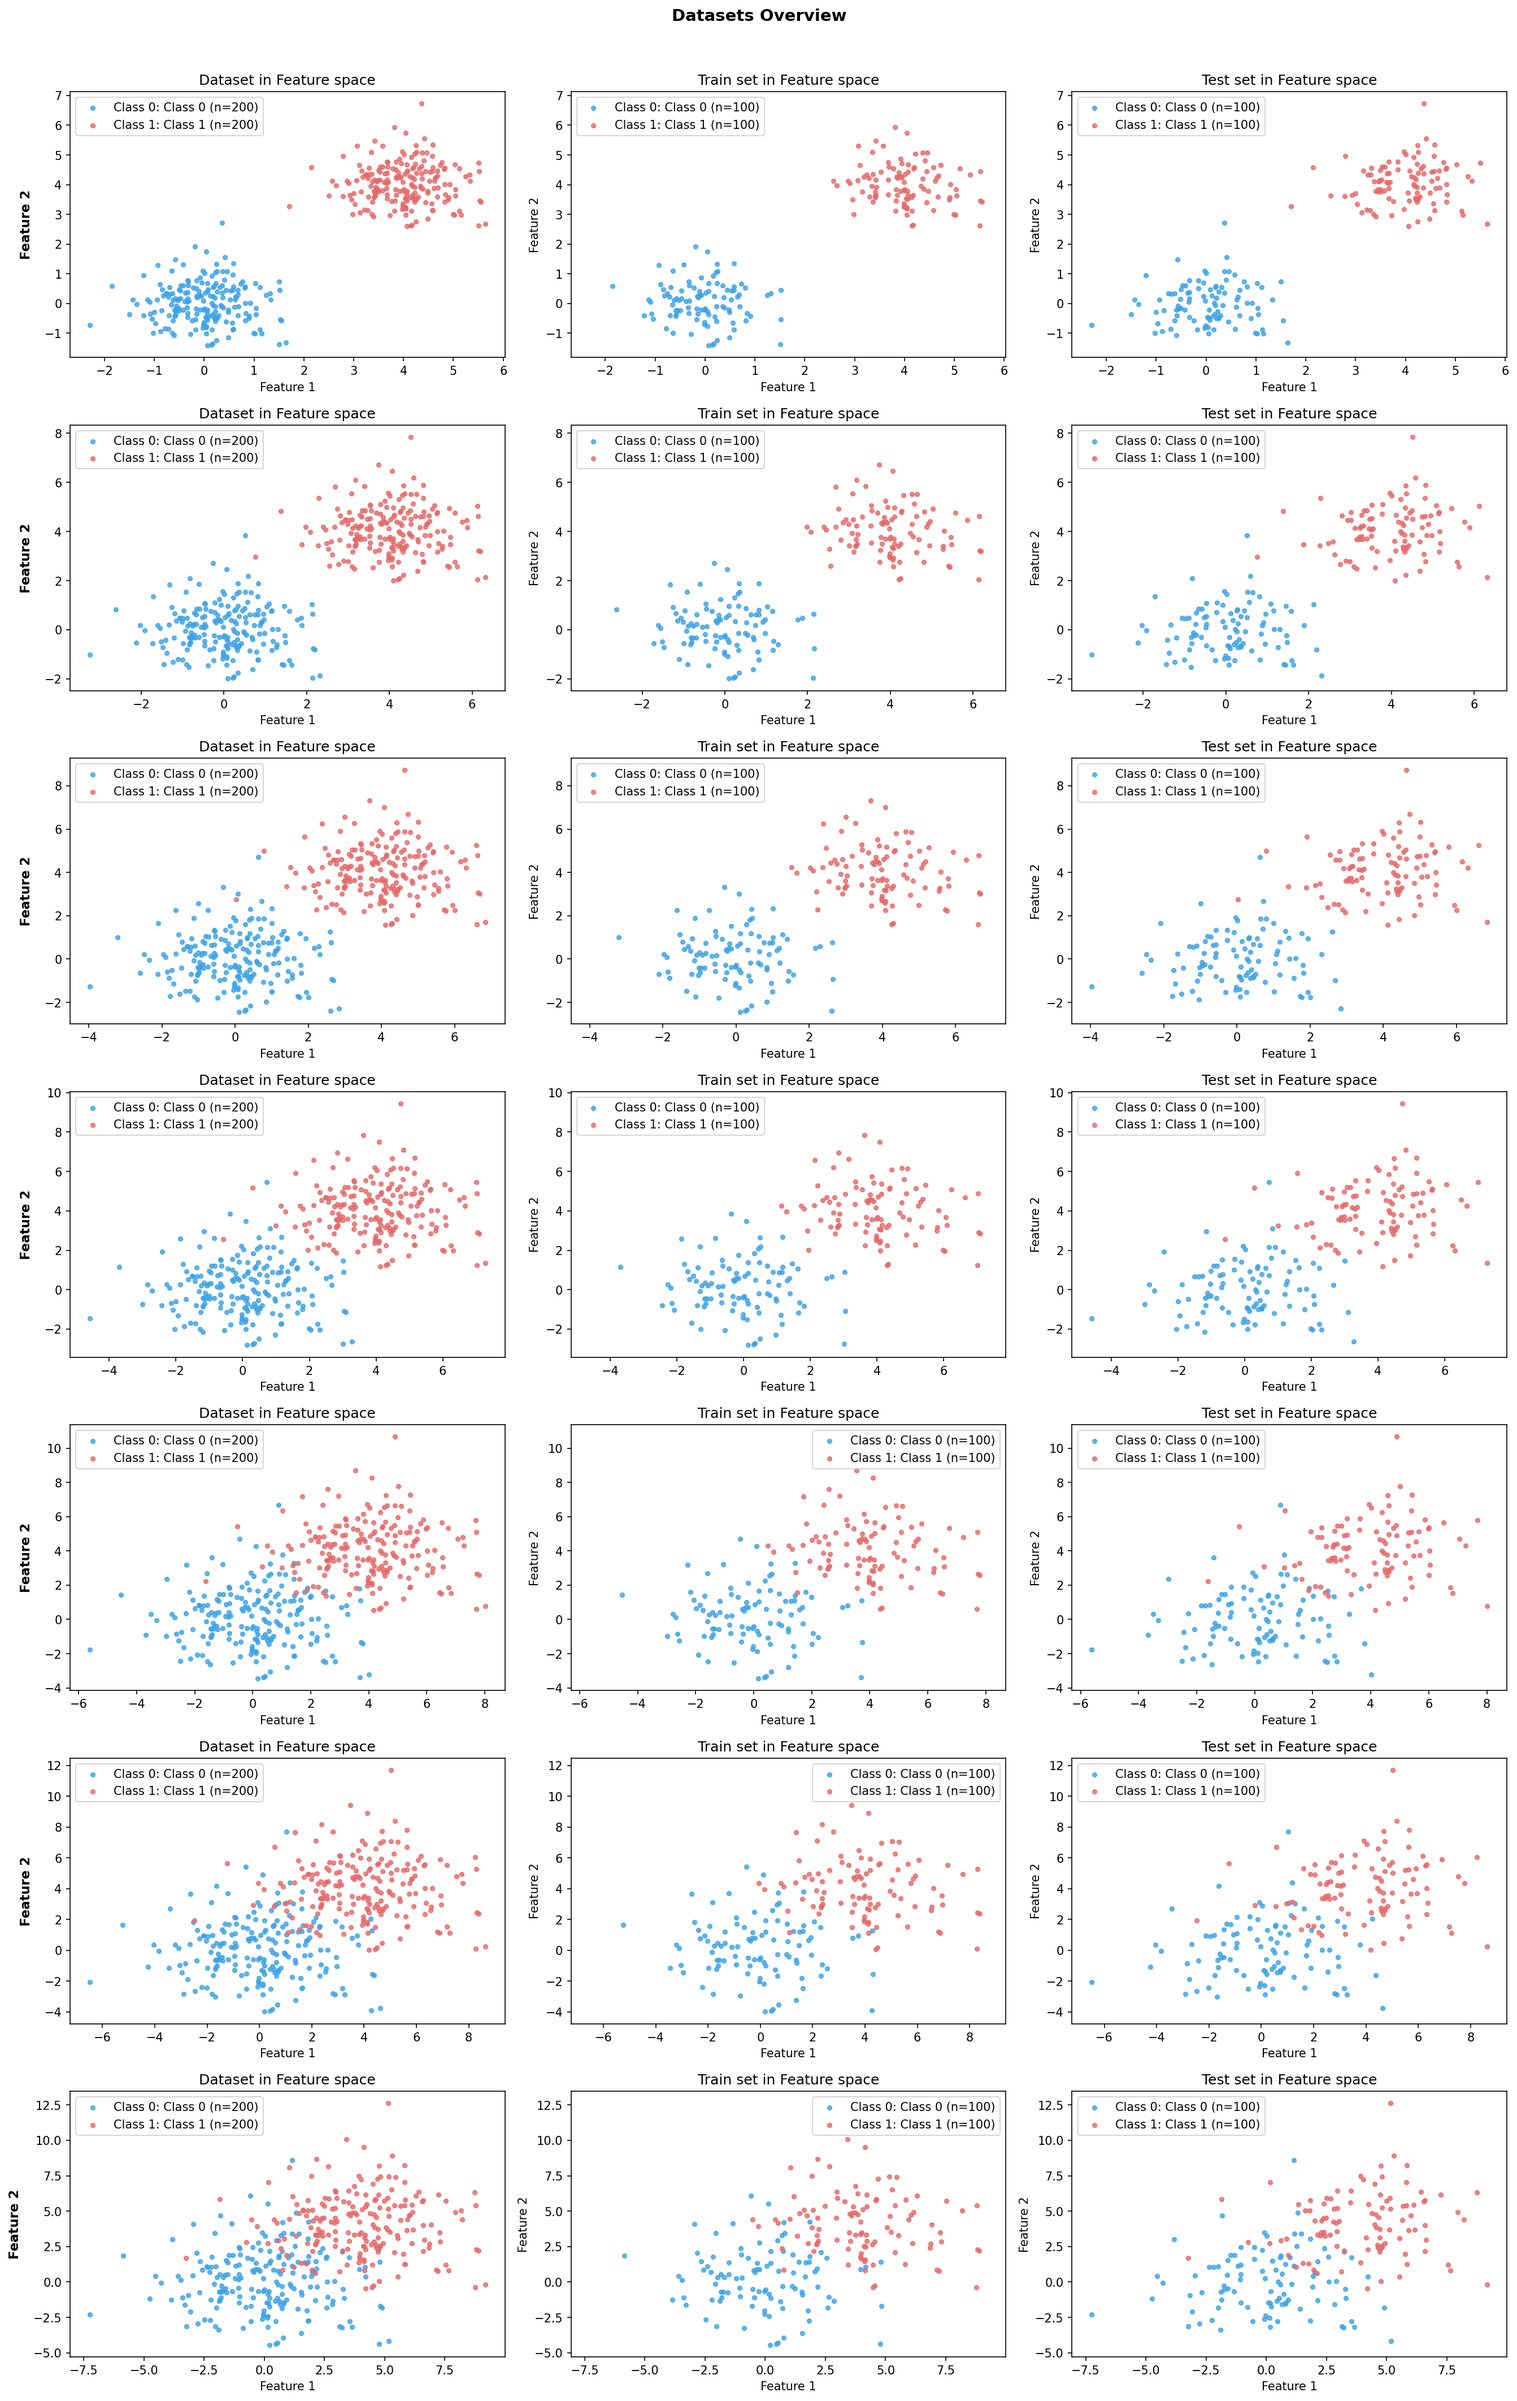
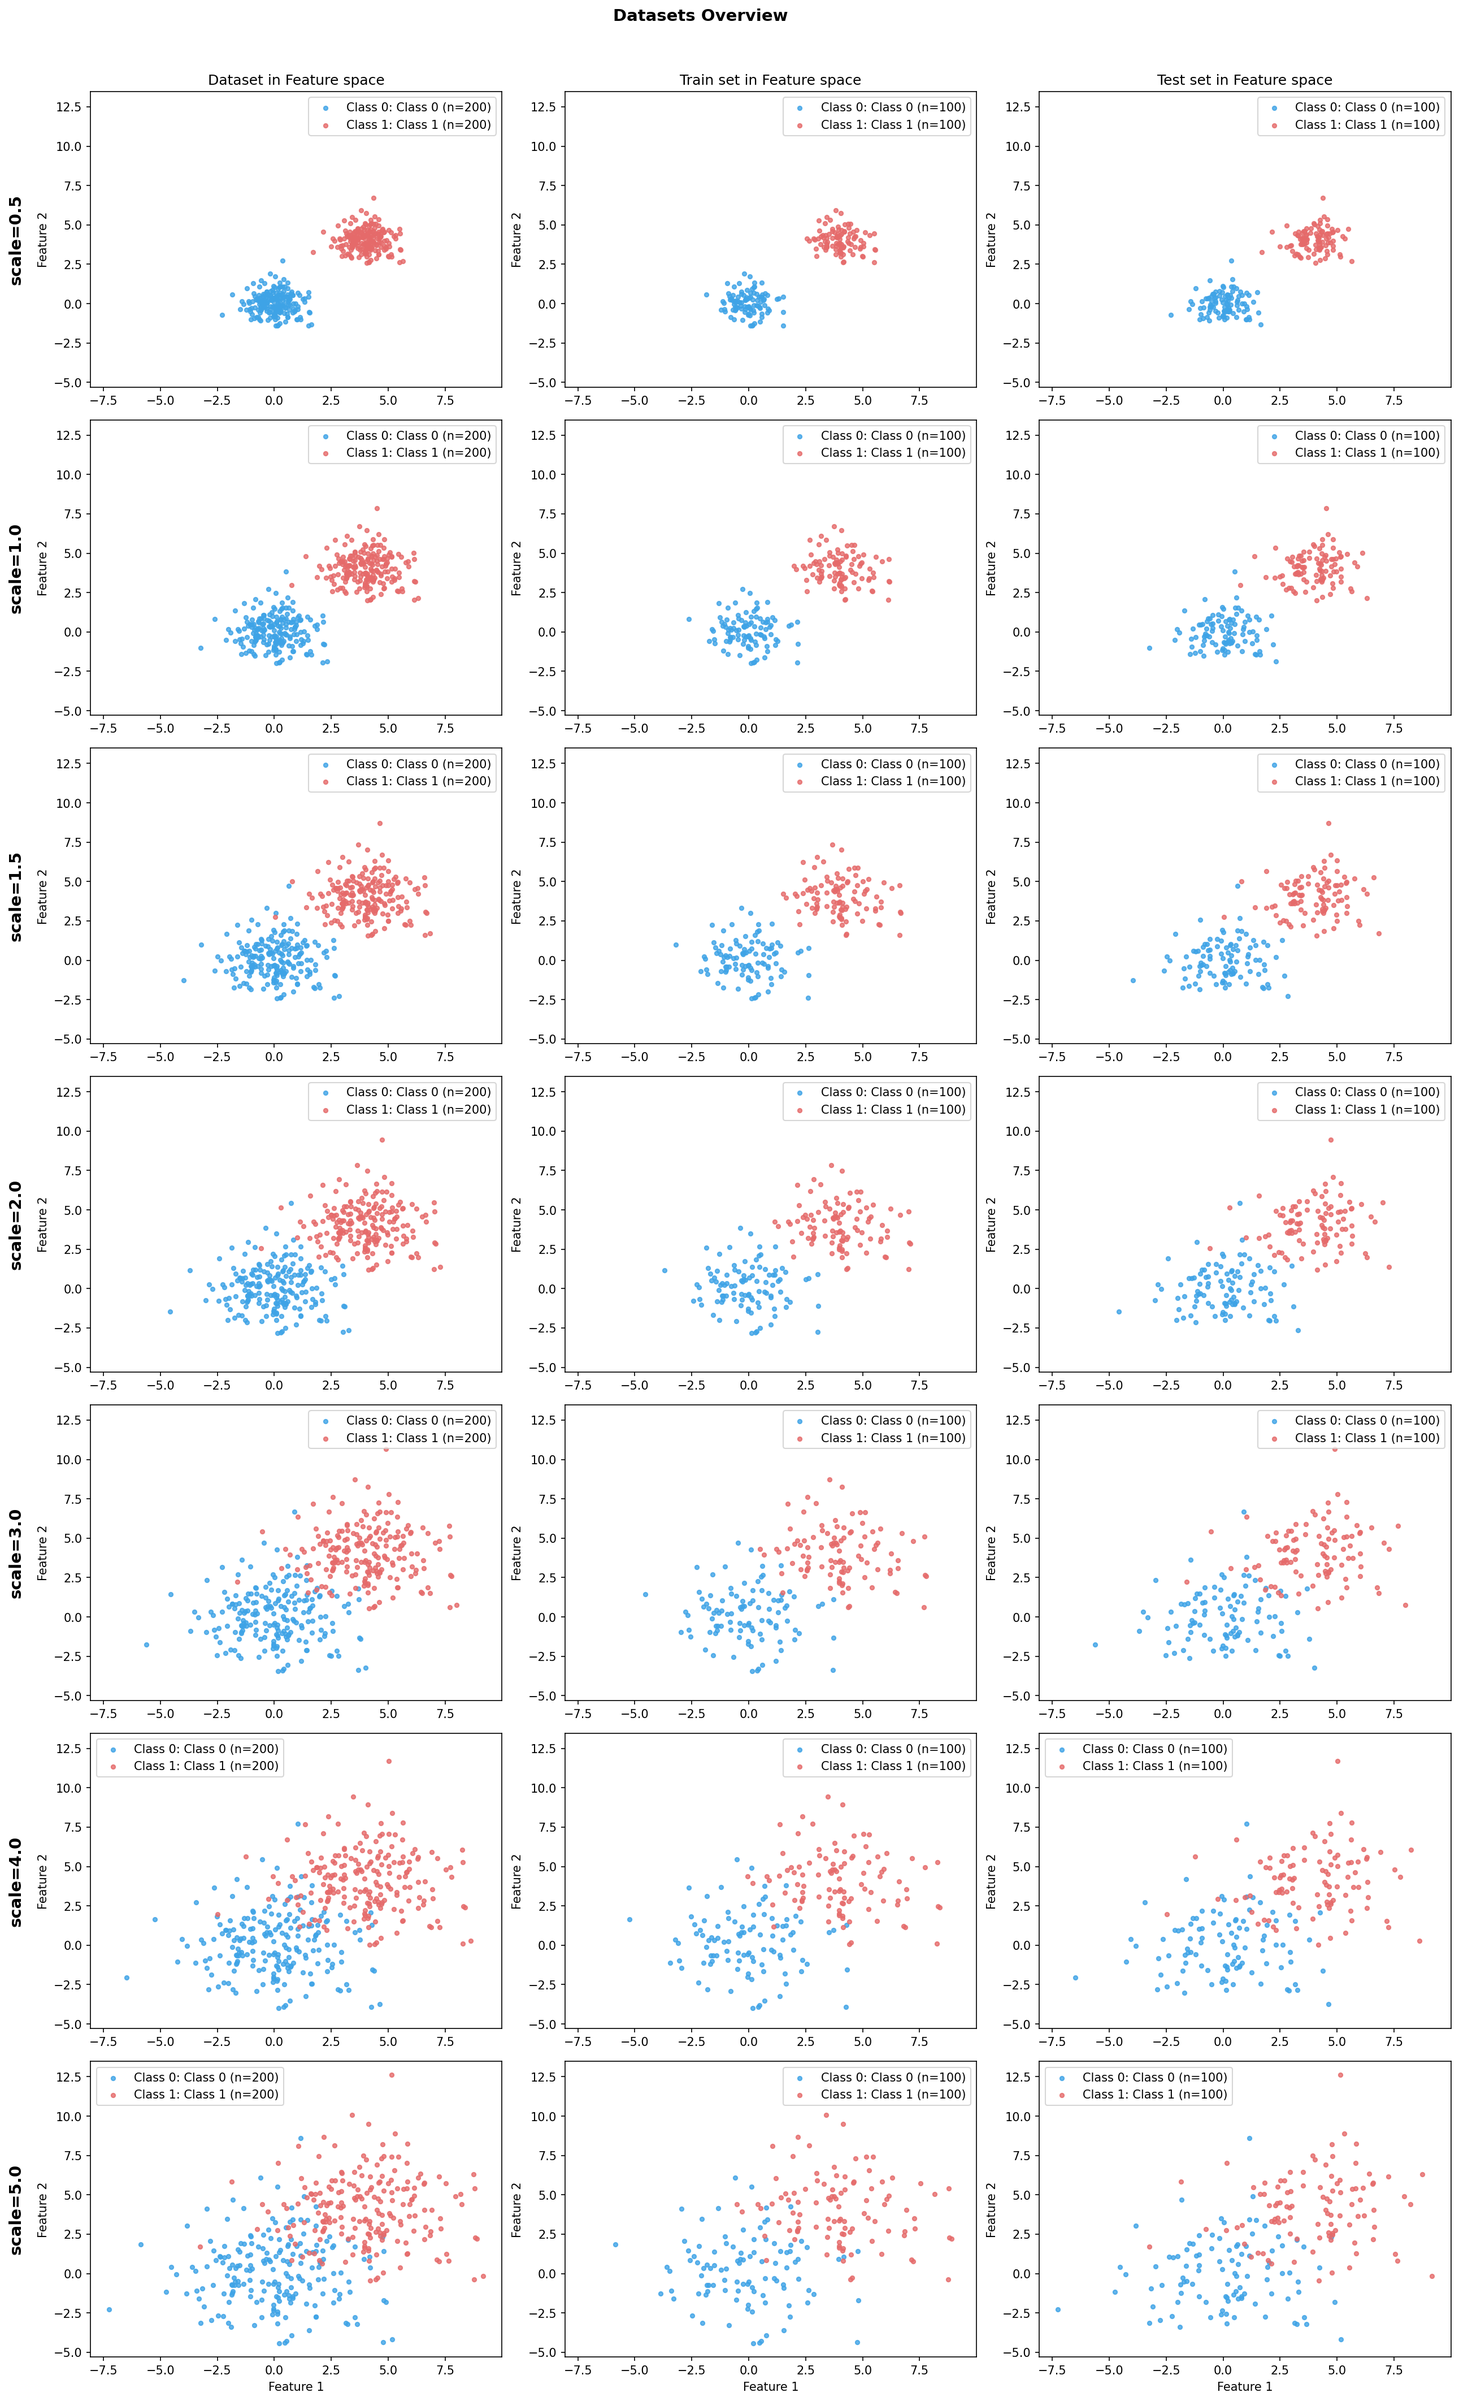
nicer dataset plotting

diff --git a/data_complexity/model_experiments/plotting.py b/data_complexity/model_experiments/plotting.py
@@ -610,6 +610,9 @@ def plot_datasets_overview(
     Composite grid showing all dataset visualizations.
 
     Rows = one per parameter value; columns = Full Dataset | Train | Test.
+    All subplots share the same axis scale limits. X-axis labels appear only
+    on the bottom row. Parameter values are shown as row labels in the left
+    margin, outside the plot area, preserving the original y-axis labels.
 
     Parameters
     ----------
@@ -643,9 +646,6 @@ def plot_datasets_overview(
     for row_idx, param_value in enumerate(param_values):
         dataset = datasets[param_value]
         row_axes = axes[row_idx]
-        row_axes[0].set_ylabel(
-            format_label(param_value), fontsize=11, fontweight="bold", labelpad=10
-        )
         try:
             dataset.plot_dataset(ax=row_axes[0])
             dataset.plot_train_test_split(ax=(row_axes[1], row_axes[2]))
@@ -658,9 +658,43 @@ def plot_datasets_overview(
                     transform=blank_ax.transAxes,
                     ha="center", va="center", fontsize=12, color="grey",
                 )
+        # Add param label to the left margin, outside the axes area
+        row_axes[0].text(
+            -0.18, 0.5,
+            format_label(param_value),
+            transform=row_axes[0].transAxes,
+            fontsize=14,
+            ha="center",
+            va="center",
+            rotation=90,
+            clip_on=False,
+            fontweight="bold"
+        )
+
+    # Uniform axis limits across all populated axes
+    all_xlims = [ax.get_xlim() for row in axes for ax in row if ax.has_data()]
+    all_ylims = [ax.get_ylim() for row in axes for ax in row if ax.has_data()]
+    if all_xlims:
+        global_xlim = (min(lo for lo, _ in all_xlims), max(hi for _, hi in all_xlims))
+        global_ylim = (min(lo for lo, _ in all_ylims), max(hi for _, hi in all_ylims))
+        for row in axes:
+            for ax in row:
+                if ax.has_data():
+                    ax.set_xlim(global_xlim)
+                    ax.set_ylim(global_ylim)
+
+    # X-axis labels only on the bottom row and title only on the top row; row labels in the left margin
+    for row_idx, row in enumerate(axes):
+        if row_idx < n_rows - 1:
+            for ax in row:
+                ax.set_xlabel("")
+        if row_idx > 0:
+            for ax in row:
+                ax.set_title("")
 
     fig.suptitle("Datasets Overview", fontsize=14, fontweight="bold", y=1.01)
     plt.tight_layout()
+    fig.subplots_adjust(left=0.1)
     return fig
 
 
